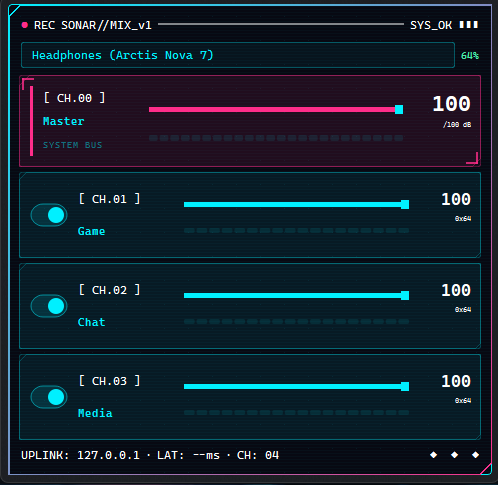
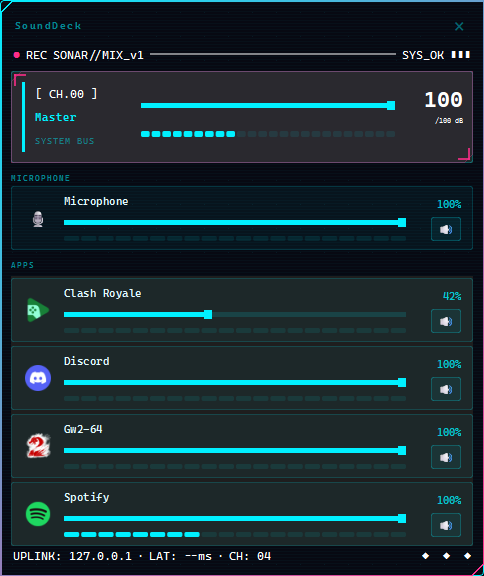
fix: drop closed apps from per-app mixer; refresh README + screenshots (0.1.9)
- Filter out Expired audio sessions and dead processes so closed apps no
  longer linger in the per-app mixer.
- Refresh the channel/app list immediately when the flyout opens.
- Refresh README with current screenshots (per-app mixer + mic section),
  side-by-side theme preview, and a downloads section.
- Bump version to 0.1.9.

diff --git a/sounddeck/windows_apps.py b/sounddeck/windows_apps.py
@@ -55,6 +55,13 @@ class WindowsAppVolumes:
                 volume = session.SimpleAudioVolume
                 if volume is None:
                     continue
+                # A closed app's session lingers as "Expired" (state 2) until Windows
+                # releases it — skip those so closed apps drop out of the list.
+                try:
+                    if int(session.State) == 2:
+                        continue
+                except Exception:
+                    pass
                 process = getattr(session, "Process", None)
                 pid = int(getattr(process, "pid", 0) or 0)
                 if pid <= 0:
@@ -62,6 +69,12 @@ class WindowsAppVolumes:
                     continue
                 if pid in by_pid:
                     continue
+                # Belt-and-suspenders: drop sessions whose process is gone.
+                try:
+                    if process is not None and not process.is_running():
+                        continue
+                except Exception:
+                    pass
                 name = self._display_name(session, process, pid)
                 level = int(round(self._clamp01(volume.GetMasterVolume()) * 100))
                 muted = bool(volume.GetMute())

diff --git a/sounddeck/application.py b/sounddeck/application.py
@@ -496,9 +496,11 @@ class SonarControlApplication:
         return max((by_pid.get(pid, 0.0) for pid in pids), default=0.0)
 
     def _on_window_shown(self) -> None:
-        # Resume level metering and refresh battery when the flyout opens.
+        # Resume level metering, refresh battery, and pull a fresh channel/app
+        # snapshot when the flyout opens (so closed apps drop out immediately).
         self._levels_visible.set()
         self._poll_battery_once()
+        self.refresh_channels(show_toast=False)
 
     def _on_window_hidden(self) -> None:
         # Pause level metering while hidden to keep the tray app near-idle.

diff --git a/sounddeck/ui.py b/sounddeck/ui.py
@@ -2837,7 +2837,7 @@ class SettingsWindow(QDialog):
             self._tab_buttons[key] = button
             self._stack.addWidget(page)
         sidebar_layout.addStretch(1)
-        version = QLabel("v0.1.8")
+        version = QLabel("v0.1.9")
         version.setObjectName("settingsVersion")
         sidebar_layout.addWidget(version)
         self._select_tab(0, "general")

diff --git a/README.md b/README.md
@@ -1,95 +1,104 @@
 # SoundDeck
 
-Modern PySide6 system-tray flyout mixer for Windows, with optional SteelSeries Sonar integration.
+A compact Windows **system-tray audio mixer** built with PySide6 — per-app volume, microphone and master control, live meters, and an optional deep integration with SteelSeries Sonar. SteelSeries is **not required**.
 
-![SoundDeck Screenshot](docs/screenshot.png)
-![Cyberpunk Theme](docs/cyber.png)
+<table>
+  <tr>
+    <td align="center"><b>Cyberpunk theme</b> (default)</td>
+    <td align="center"><b>Standard theme</b></td>
+  </tr>
+  <tr>
+    <td><img src="docs/cyber.png" alt="SoundDeck cyberpunk theme" width="420"></td>
+    <td><img src="docs/screenshot.png" alt="SoundDeck standard theme" width="420"></td>
+  </tr>
+</table>
 
-## Highlights
+## Download
 
-- Tray-first UX (`QSystemTrayIcon`) with flyout mixer panel
-- Frameless dark gaming-style UI — **Cyberpunk theme on by default**
-- Channels: `MASTER`, `GAME`, `CHAT`, `MEDIA`
-- Per-channel volume and mute
-- Per-channel output selection (routable channels)
-- App routing chips with drag/drop between channels
-- Local app alias support (e.g. `Gw2-64` -> `Guild Wars 2`)
-- Works without SteelSeries: when Sonar isn't running, shows the Windows Master strip plus a per-app volume/mute mixer for every running app (via `pycaw` Core Audio sessions — no virtual audio driver needed)
-- Headset battery badge on the tray icon (SteelSeries Arctis via HID)
-- Settings window: theme, "close on click outside", "lock window position", compact view, startup, status line
+Grab the latest **installer** or **portable** build from the
+[Releases page](https://github.com/buracules/sounddeck/releases/latest).
+
+- **Installer** — `SoundDeck-Setup-<version>.exe`
+- **Portable** — `SoundDeck-Portable-<version>.zip` (unzip and run `SoundDeck.exe`)
+
+Windows 10/11, 64-bit. The build is unsigned, so SmartScreen may warn on first run — choose *More info → Run anyway*.
+
+## Features
+
+Tray-first UX (`QSystemTrayIcon`) with a frameless flyout panel, a **cyberpunk theme on by default**, live Windows Core Audio VU meters, and a draggable window that grows upward so it never clips off-screen.
+
+**Without SteelSeries** (pure Windows, via `pycaw` — no virtual audio driver needed):
+
+- **Master** output volume/mute
+- **Microphone** volume/mute in its own section
+- **Per-app mixer** — every running app as a row with its icon, volume slider, live meter, and mute
+- Closed apps drop out of the list automatically
+
+**With SteelSeries Sonar running:**
+
+- `MASTER` / `GAME` / `CHAT` / `MEDIA` channels with per-channel volume and mute
+- Per-channel output device selection (routable channels)
+- Drag-and-drop app routing chips between channels
+- Local app alias support (e.g. `Gw2-64` → `Guild Wars 2`)
+
+**Extras:**
+
+- Headset battery badge on the tray icon (SteelSeries Arctis via HID — works even with SteelSeries GG closed)
+- Settings window (cyberpunk-styled): theme, compact view, close-on-click-outside, lock window position, status line, launch at startup
+- Near-idle CPU usage — audio metering only runs while the flyout is open
 
 ## Requirements
 
-- Windows 10/11
-- Python 3.11+
-- SteelSeries GG / Sonar (optional — enables the full 4-channel mixer and per-app routing)
+- Windows 10/11 (64-bit)
+- SteelSeries GG / Sonar — **optional**, enables the 4-channel mixer and per-channel routing
 
-## Installation
+To run from source you also need Python 3.11+.
+
+## Run from source
 
 ```powershell
-cd sonar-control-panel
+cd sounddeck
 python -m venv .venv
 .\.venv\Scripts\Activate.ps1
 python -m pip install -r requirements.txt
-```
-
-## Run
-
-```powershell
-cd sonar-control-panel
 .\.venv\Scripts\python app.py
 ```
 
-## Build Installer (Windows)
+## Build installer (Windows)
 
-1. Install Inno Setup 6 (`ISCC.exe` must be available under Program Files).
-2. Build app + setup:
-
-```powershell
-cd sonar-control-panel
-.\build-installer.ps1 -Version 0.1.7
-```
-
-Optional clean build:
+1. Install Inno Setup 6 (`ISCC.exe`).
+2. Build the portable zip and installer:
 
 ```powershell
-.\build-installer.ps1 -Version 0.1.7 -Clean
+.\build-installer.ps1 -Version 0.1.9          # add -Clean for a fresh build
 ```
 
-Outputs:
+Outputs land in `dist\`:
 
 - App folder: `dist\SoundDeck\`
 - Portable: `dist\SoundDeck-Portable-<version>.zip`
 - Installer: `dist\SoundDeck-Setup-<version>.exe`
 
-## CLI Utilities
-
-```powershell
-# Capture Sonar/GG IPC probe snapshot
-.\.venv\Scripts\python app.py --capture-ipc .\ipc-capture.json
-
-# Replay a captured payload against /v2/subAppActions
-.\.venv\Scripts\python app.py --replay-ipc .\payload.json
-```
-
-## Project Structure
+## Project structure
 
 ```text
 app.py
 requirements.txt
 sounddeck/
-  application.py       # app orchestration
-  ui.py                # flyout UI and widgets
-  tray.py              # Qt tray integration
-  sonar_client.py      # sonar volume/mute wrapper
-  sonar_api_switcher.py# output device selection
-  audio_routing.py     # process routing
-  windows_volume.py    # Windows master fallback volume (no Sonar)
-  windows_apps.py      # per-app volume/mute mixer (no Sonar)
-  assets/              # svg/png icons
+  application.py         # orchestration, threads, polling
+  ui.py                  # flyout UI, channel strips, app rows, settings
+  tray.py                # Qt tray integration + battery badge
+  sonar_client.py        # Sonar volume/mute wrapper
+  sonar_api_switcher.py  # Sonar output device selection
+  audio_routing.py       # Sonar per-app routing
+  audio_levels.py        # Core Audio peak meters
+  headset_battery.py     # Arctis battery over HID
+  windows_volume.py      # Windows master + microphone (no Sonar)
+  windows_apps.py        # per-app volume/mute mixer (no Sonar)
+  assets/                # icons and fonts
 ```
 
-## Open Source Notes
+## Open source notes
 
 - License: MIT (see `LICENSE`)
 - Contributions: see `CONTRIBUTING.md`

diff --git a/CHANGELOG.md b/CHANGELOG.md
@@ -4,6 +4,15 @@ All notable changes to this project will be documented in this file.
 
 The format is based on Keep a Changelog and this project follows Semantic Versioning.
 
+## [0.1.9] - 2026-07-13
+
+### Fixed
+- Closed apps no longer linger in the per-app mixer. Windows keeps an app's audio session in an "Expired" state for a while after it exits; those sessions (and any whose process is no longer running) are now filtered out.
+
+### Changed
+- The flyout now refreshes its channel/app list immediately when opened, instead of waiting for the next background poll — closed apps disappear as soon as you open it.
+- Refreshed README with current screenshots (per-app mixer + microphone section, cyan master), a side-by-side theme preview, and a downloads section.
+
 ## [0.1.8] - 2026-07-12
 
 ### Changed